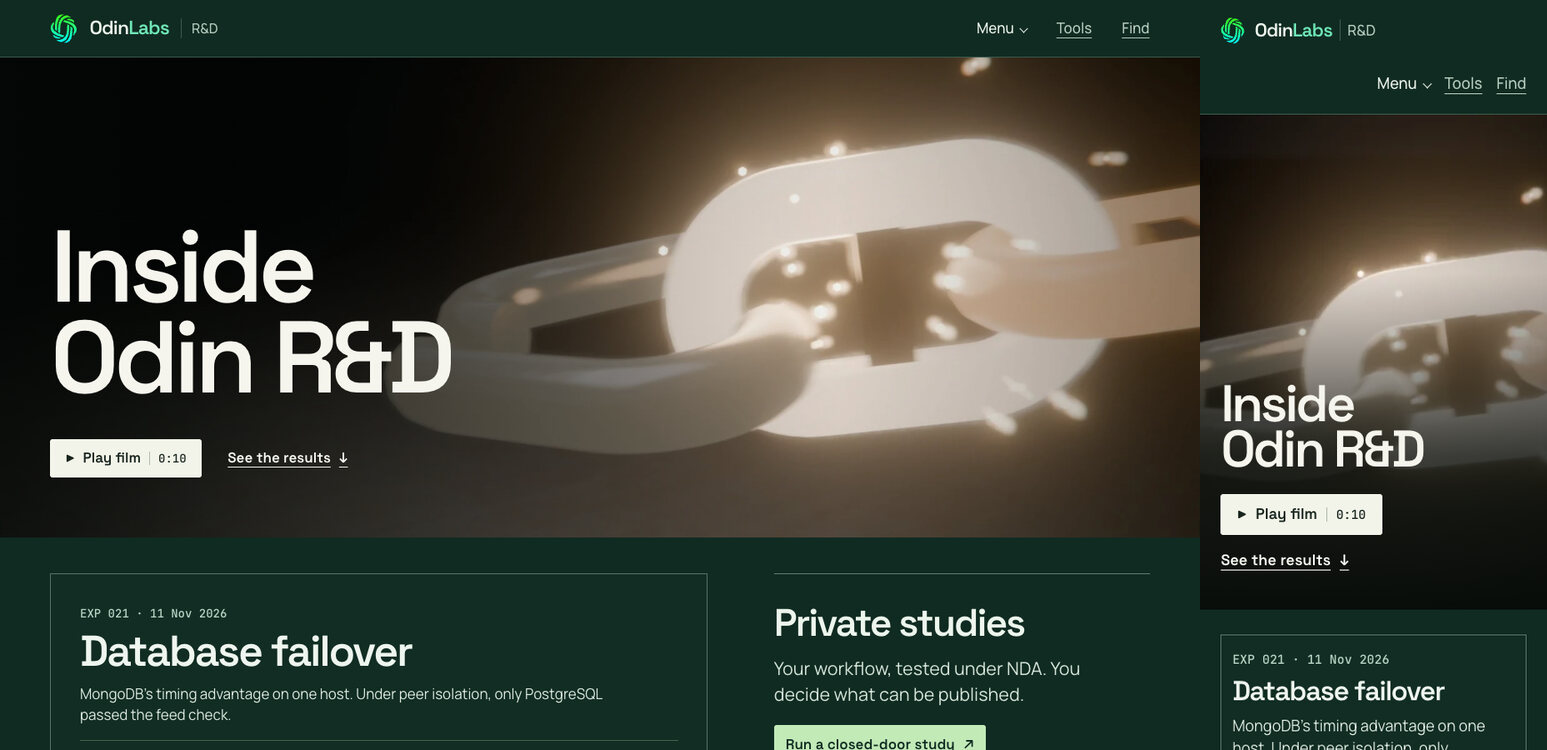
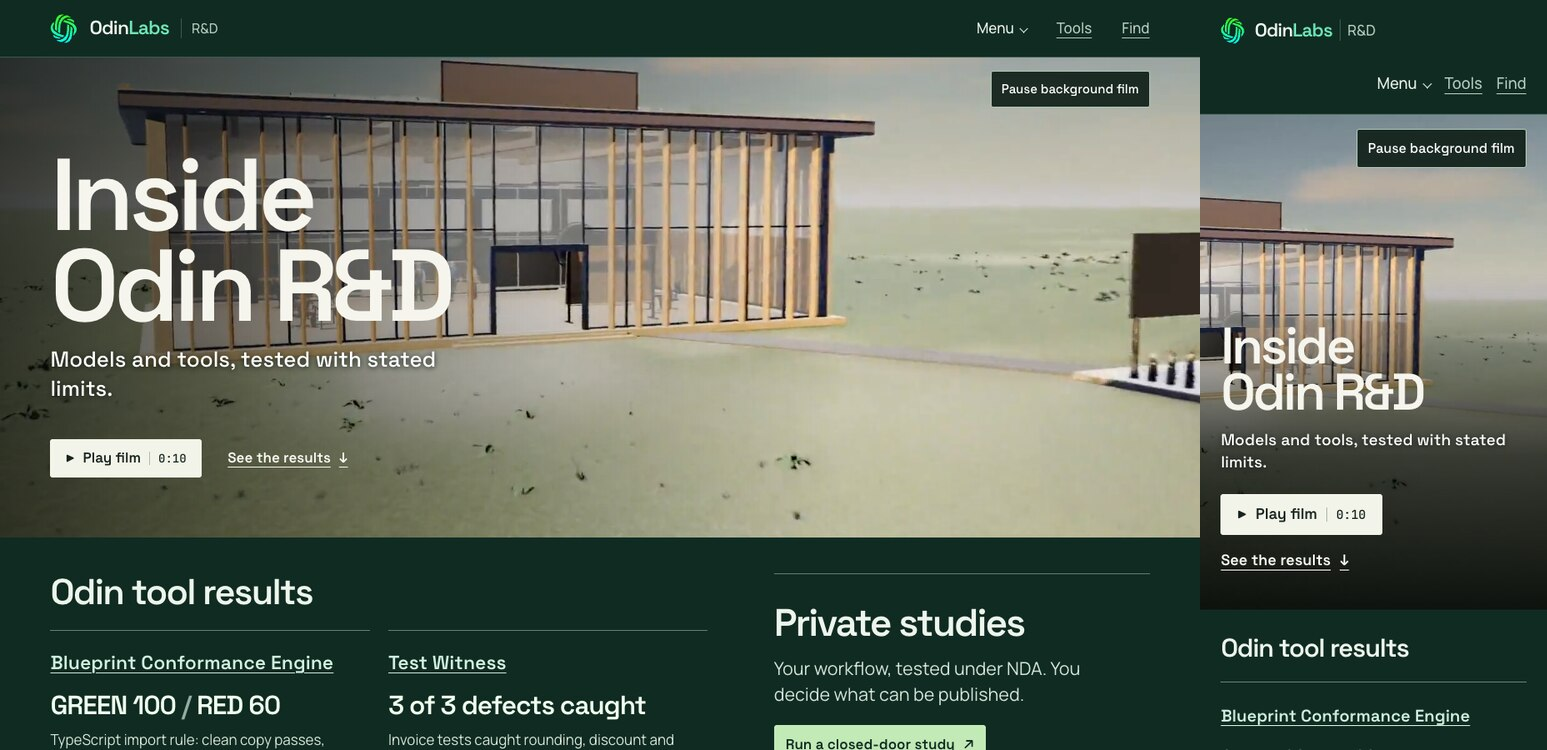
Record the corrected tool-led site and desktop and phone previews

diff --git a/site/index.html b/site/index.html
@@ -59,22 +59,22 @@
         <dialog class="home-film-player" aria-labelledby="home-film-title" aria-describedby="home-film-description">
           <header><h2 id="home-film-title">Inside Odin R&amp;D</h2><form method="dialog"><button type="submit" autofocus>Close <span aria-hidden="true">×</span></button></form></header>
           <video controls preload="none" playsinline width="1920" height="1080" aria-labelledby="home-film-title" aria-describedby="home-film-description"></video>
-          <footer><p id="home-film-description">A silent film. The engineering hall in Unreal Engine, then the core and the audit chain rendered in Blender.</p><a href="assets/home-film/inside-odin.mp4">Open film file</a></footer>
+          <footer><p id="home-film-description">Silent film. Unreal Engine hall and Blender audit chain.</p><a href="assets/home-film/inside-odin.mp4">Open film file</a></footer>
         </dialog>
         <div class="home-studies" id="tool-results">
           <div class="entry-evidence">
-            <h2>Our tools in a recorded test</h2>
+            <h2>Odin tool results</h2>
             <div class="entry-tools">
               <article>
                 <h3><a href="experiments/">Blueprint Conformance Engine</a></h3>
                 <p class="entry-score"><!--BLUEPRINT_SCORES--></p>
-                <p>A TypeScript module followed its import rule. A second copy crossed the boundary and the engine flagged it.</p>
+                <p>TypeScript import rule: clean copy passes, forbidden import flagged.</p>
                 <a href="data/experiments.json">Recorded <!--BLUEPRINT_DATE--></a>
               </article>
               <article>
                 <h3><a href="projects/test-witness/">Test Witness</a></h3>
                 <p class="entry-score"><!--WITNESS_SCORE--></p>
-                <p>The invoice tests caught planted errors in rounding, the discount threshold and input validation.</p>
+                <p>Invoice tests caught rounding, discount and validation errors.</p>
                 <a href="data/witnesses/test-witness.json">Recorded <!--WITNESS_DATE--></a>
               </article>
             </div>
